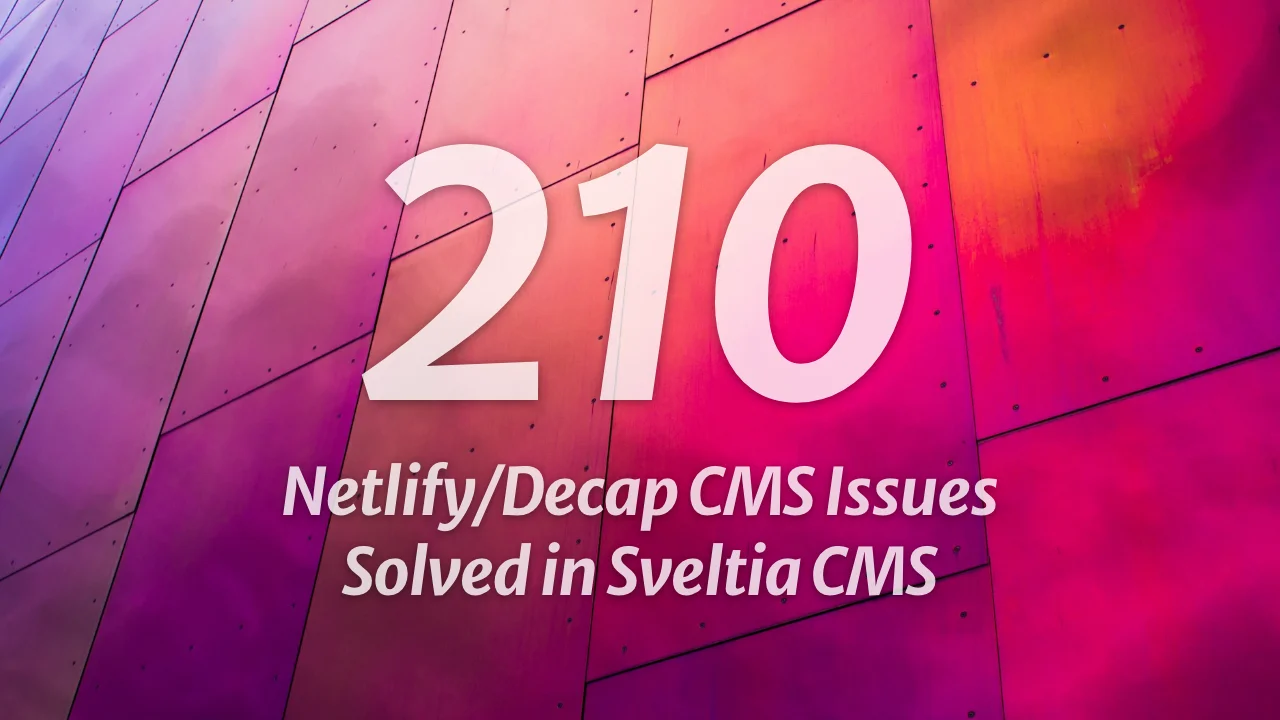
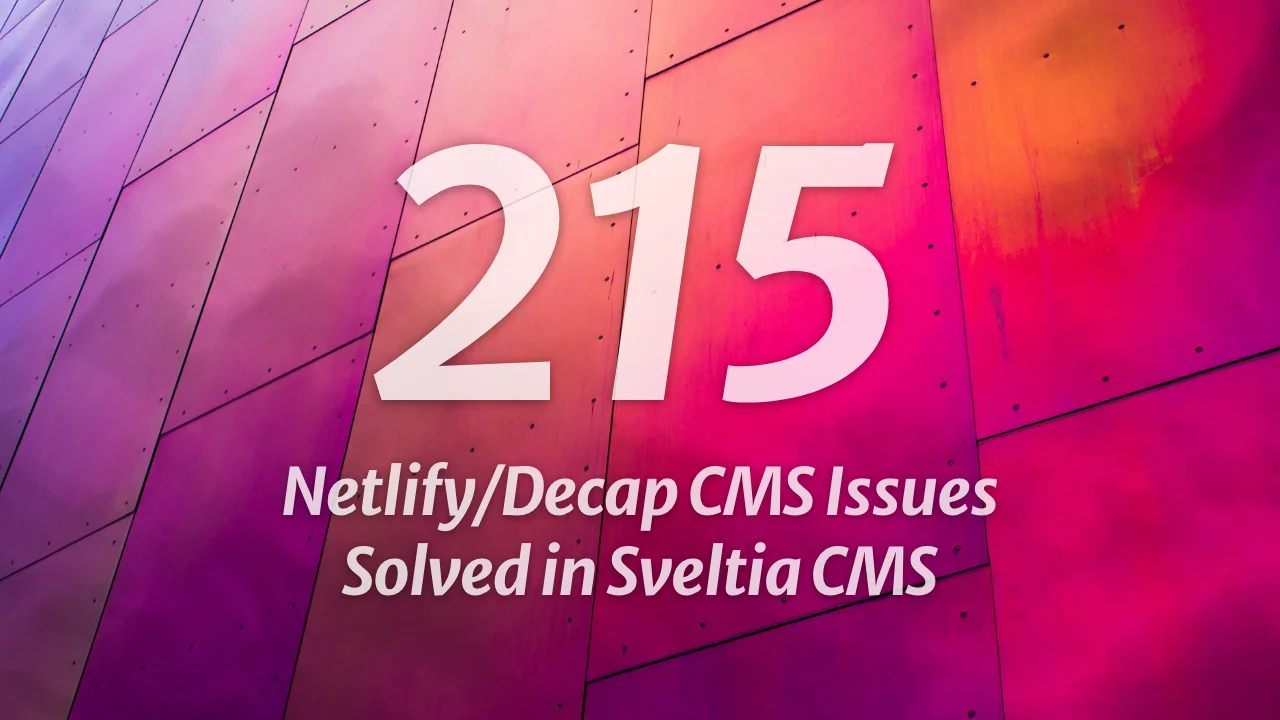
[skip ci] Update README.md

diff --git a/src/lib/types/public.js b/src/lib/types/public.js
@@ -183,7 +183,7 @@
  * output option is `true`. If i18n is enabled and the field doesn’t require input in all locales,
  * required locale codes can be passed as an array like `[en, fr]` instead of a boolean.
  * @property {boolean} [readonly] Whether to make the field read-only. Default: `false`. This is
- * useful if the `default` value is given and the field should not be editable.
+ * useful when a `default` value is provided and the field should not be editable by users.
  * @property {[string, string]} [pattern] Validation format. The first argument is a regular
  * expression pattern for a valid input value, and the second argument is an error message. This
  * option has no effect on a List or Object field with subfields.

diff --git a/README.md b/README.md
@@ -130,7 +130,7 @@ While we fix reported bugs as quickly as possible, usually within 24 hours, our 
 - Ensuring substantial [compatibility with Netlify/Decap CMS](#compatibility)
 - Providing partial [compatibility with Static CMS](#compatibility-with-static-cms)
 - Tackling as many [Netlify/Decap CMS issues](https://github.com/decaporg/decap-cms/issues) as possible
-  - So far, 210+ issues, or 425+ if including duplicates, have been effectively solved in Sveltia CMS
+  - So far, 215+ issues, or 425+ if including duplicates, have been effectively solved in Sveltia CMS
   - Target:
     - 200 issues, or 400 if including duplicates, by GA — We did it! 🎉
     - 350 issues, or 700 if including duplicates, in the future 💪
@@ -144,7 +144,7 @@ While we fix reported bugs as quickly as possible, usually within 24 hours, our 
 - Responding to requests from the maintainer’s clients
 - Making the code clean and maintainable
 
-![210 Netlify/Decap CMS issues solved in Sveltia CMS](https://raw.githubusercontent.com/sveltia/sveltia-cms/main/docs/headline-1.webp?20250519)<br>
+![215 Netlify/Decap CMS issues solved in Sveltia CMS](https://raw.githubusercontent.com/sveltia/sveltia-cms/main/docs/headline-1.webp?20250530)<br>
 
 ## Differentiators
 
@@ -242,6 +242,7 @@ Netlify/Decap CMS users will definitely be pleased and surprised by the numerous
 - We provide [our own OAuth client](https://github.com/sveltia/sveltia-cms-auth) for GitHub and GitLab.
 - Users won’t get a 404 Not Found error when you sign in to the GitLab backend.[^115]
 - Our Gitea backend is high-performing because it retrieves multiple entries simultaneously. It also won’t cause 400 Bad Request errors due to the presence of `DRAFT_MEDIA_FILES` in file paths.[^222]
+- The OAuth token is automatically renewed with when using the GitLab or Gitea backend with PKCE authorization.[^224] Token renewal for other backend configurations will be implemented later.
 - Features the all-new local backend that boosts DX. See the [productivity section](#better-productivity) above.
 - Developers can select the local and remote backends while working on a local server.
 - The Test backend saves entries and assets in the browser’s [origin private file system](https://web.dev/articles/origin-private-file-system) (OPFS) so that changes are not discarded when the browser tab is closed or reloaded.[^194] The persistent storage support works with all modern browsers [except Safari](https://bugs.webkit.org/show_bug.cgi?id=254726).
@@ -345,6 +346,7 @@ Sveltia CMS has been built with a multilingual architecture from the very beginn
 - Required fields, not optional fields, are marked for efficient data entry.
 - Users can revert changes to all fields or a specific field.
 - If you revert changes and there are no unsaved changes, the Save button is disabled as expected.[^118]
+- The new `readonly` field option makes the field read-only. This is useful when a `default` value is provided and the field should not be editable by users.[^223]
 - Fields with validation errors are automatically expanded if they are part of nested, collapsed objects.[^40]
 - A full regular expression, including flags, can be used for the widget `pattern` option.[^82] For example, if you want to allow 280 characters or less in a multiline text field, you could write `/^.{0,280}$/s` (but you can now use the `maxlength` option instead.)
 - A long validation error message is displayed in full, without being hidden behind the field label.[^59]
@@ -1831,3 +1833,7 @@ This software is provided “as is” without any express or implied warranty. W
 [^221]: Netlify/Decap CMS [#3421](https://github.com/decaporg/decap-cms/issues/3421)
 
 [^222]: Netlify/Decap CMS [#7281](https://github.com/decaporg/decap-cms/issues/7281) — The issue was closed, but the attached PR is not yet merged.
+
+[^223]: Netlify/Decap CMS [#7483](https://github.com/decaporg/decap-cms/issues/7483)
+
+[^224]: Netlify/Decap CMS [#7352](https://github.com/decaporg/decap-cms/issues/7352)
